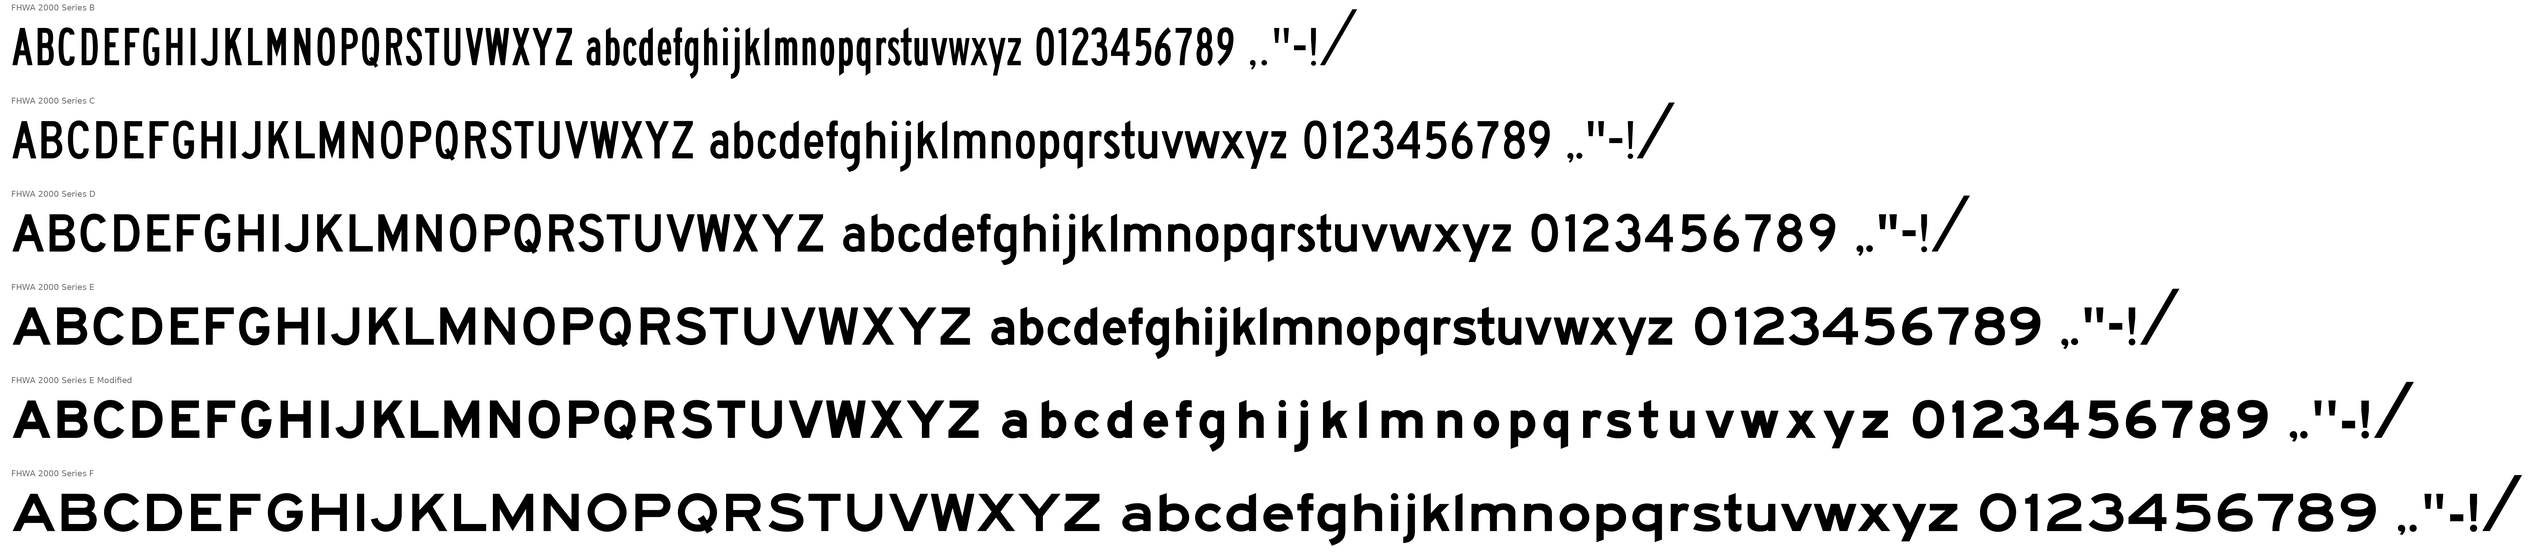
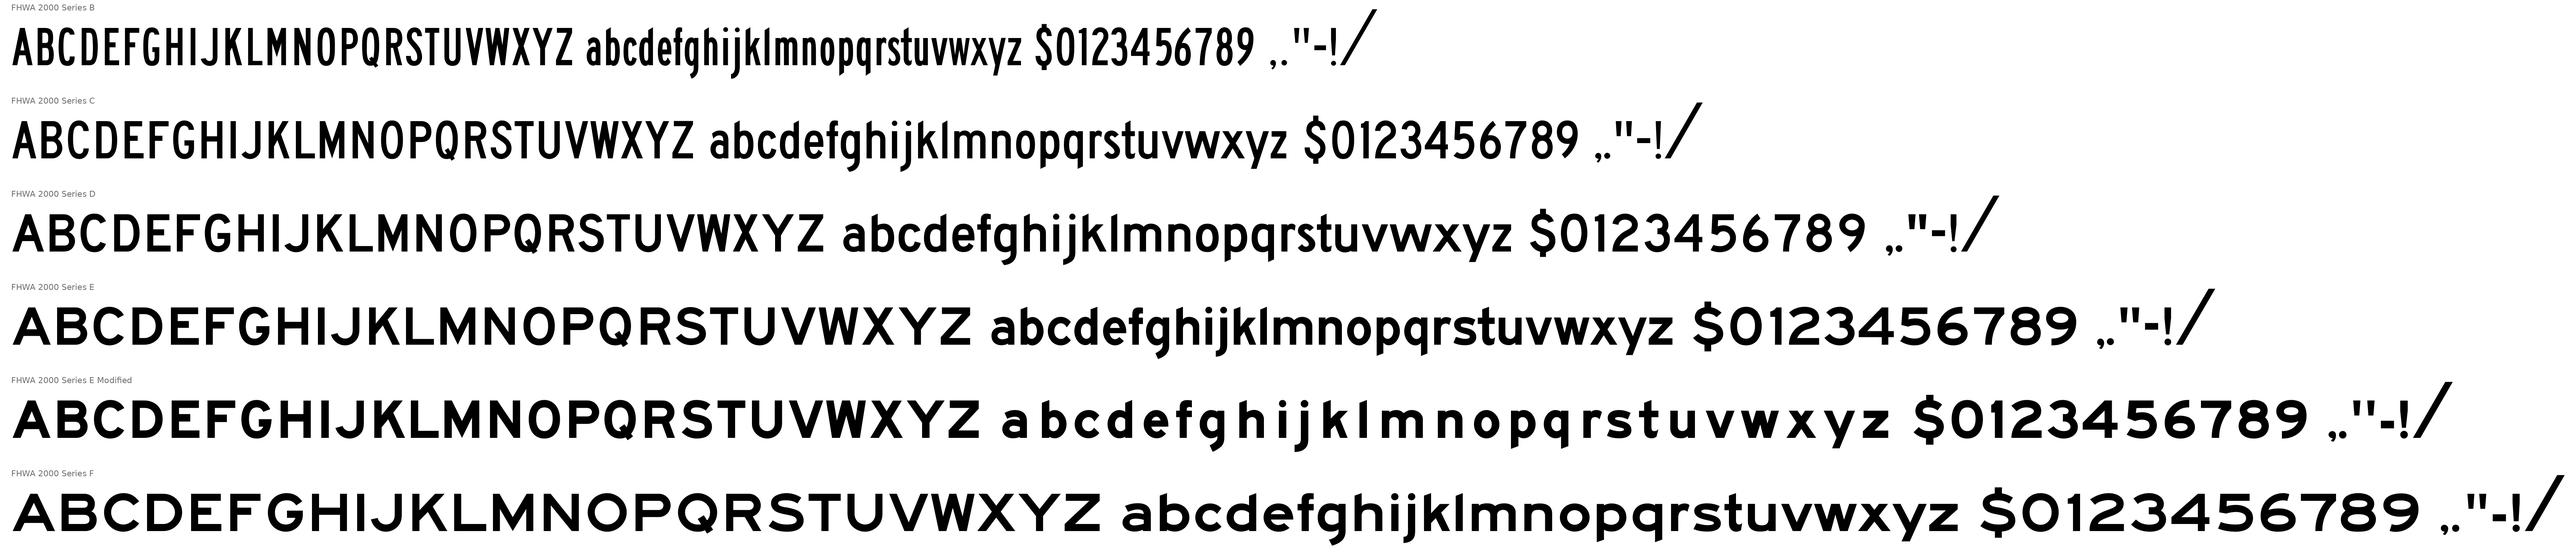
Line specimens: the $ before the figures
Both line specimens now show the $: ours and the FHWA 2000 fonts', which
do have one (short stubs above and below the S instead of a bar through
it); the notes said they had none.

Claude-Session: https://claude.ai/code/session_01CQ6vQQxJSnTm2c1SaBEEov

diff --git a/highway61/work/linespecimen.py b/highway61/work/linespecimen.py
@@ -1,7 +1,7 @@
 """One-line specimen of each font: python3 linespecimen.py -> ../../specimen/specimen-lines-h61.png (the Highway 61 Revisited
 fonts) and ../../specimen/specimen-lines-fhwa.png (the FHWA 2000 fonts), a line per font.
 
-The text is the capitals, the lower case, the figures and , . " - ! /, set at equal cap height with each font's own
+The text is the capitals, the lower case, the figures with $ and , . " - ! /, set at equal cap height with each font's own
 advances and kerning.  (No apostrophe: the FHWA fonts have none.)  The FHWA fonts' space (added by fhwa2otf.py) is
 replaced by the Highway 61 Revisited space of the same series, in cap heights, as in fhwaspecimen.py."""
 import os
@@ -9,7 +9,7 @@ from PIL import Image, ImageDraw, ImageFont
 from fhwaspecimen import info
 W=os.path.dirname(os.path.abspath(__file__)); DIST=os.path.join(W,'..','..')
 FH=os.path.join(W,'..','fhwa2000')
-TEXT='ABCDEFGHIJKLMNOPQRSTUVWXYZ abcdefghijklmnopqrstuvwxyz 0123456789 ,."-!/'
+TEXT='ABCDEFGHIJKLMNOPQRSTUVWXYZ abcdefghijklmnopqrstuvwxyz $0123456789 ,."-!/'
 SER=[('A',None),('B','B'),('C','C'),('D','D'),('E','E'),('EM','ModE'),('F','F')]
 CAP=100; PAD=30
 def line(fn,text,space,label):

diff --git a/highway61/work/build1961.py b/highway61/work/build1961.py
@@ -83,8 +83,8 @@ def _em_Q():
     old = dict(e3.DIM); e3.DIM.update({k: e3.inch(v) * 690 / 8 for k, v in EM_Q_TAIL.items()})
     try: return vgeom.fuse(e3.letter_Q()[0])
     finally: e3.DIM.clear(); e3.DIM.update(old)
-# the dollar sign (in neither the base fonts nor the FHWA 2000 fonts): the S with a vertical bar through its middle, as
-# on signs ("MINIMUM FINE $250"): the bar the capitals' full stroke wide (the alphabet has no thin strokes), standing
+# the dollar sign (not in the base fonts; the FHWA 2000 fonts' has stubs above and below the S instead): the S with a
+# vertical bar through its middle, as on signs ("MINIMUM FINE $250"): the bar the capitals' full stroke wide (the alphabet has no thin strokes), standing
 # 1/8 cap height (1 inch at 8 inches) beyond the cap line and the baseline.  Spaced with the S's side bearings.
 # In Series B and C the bar all but fills the round counters under the S's top arc and over its bottom arc, so there
 # the $'s S is first widened by DOLLAR_F, its strokes kept at weight, until the clear space beside the bar in those

diff --git a/highway61/HANDOFF.md b/highway61/HANDOFF.md
@@ -260,8 +260,9 @@ then a piecewise-linear vertical map restores the metrics (arcs stay exact axis-
   1 13/32 (13 units heavier).  The tail leans 32.6 deg from the vertical instead of 28.7, starts further left inside
   the counter and ends 18 units lower.  Tail region against the tracing: p95 30 -> 4 units, median 3.3 -> 1.2 (with
   F kept, the best was p95 7).  Series E's Q is unchanged.  VERSION 1.018.
-- Dollar sign (2026-11-09): neither the base fonts nor the FHWA 2000 fonts have one; the user asked for an S with a
-  stem through it, after a "MINIMUM FINE $250" sign.  `build1961._dollar`: the series' S (for E(M), Series E's S
+- Dollar sign (2026-11-09): the base fonts have none (the FHWA 2000 fonts do: an S with short stubs above and below
+  rather than a bar through it, which the maker of the sign below evidently did not use); the user asked for an S
+  with a stem through it, after a "MINIMUM FINE $250" sign.  Both line specimens show it.  `build1961._dollar`: the series' S (for E(M), Series E's S
   before the offset and squeeze) united with a vertical bar centred on the S's box, `DOLLAR_BAR` = the
   capitals' full stroke wide and `DOLLAR_EXT` = 1/8 cap height (1 inch at 8 in) beyond the cap line and baseline, the ends as
   measured on the sign photo (0.10-0.15 of the height beyond).  The photo's bar is about half the S's stroke, but
